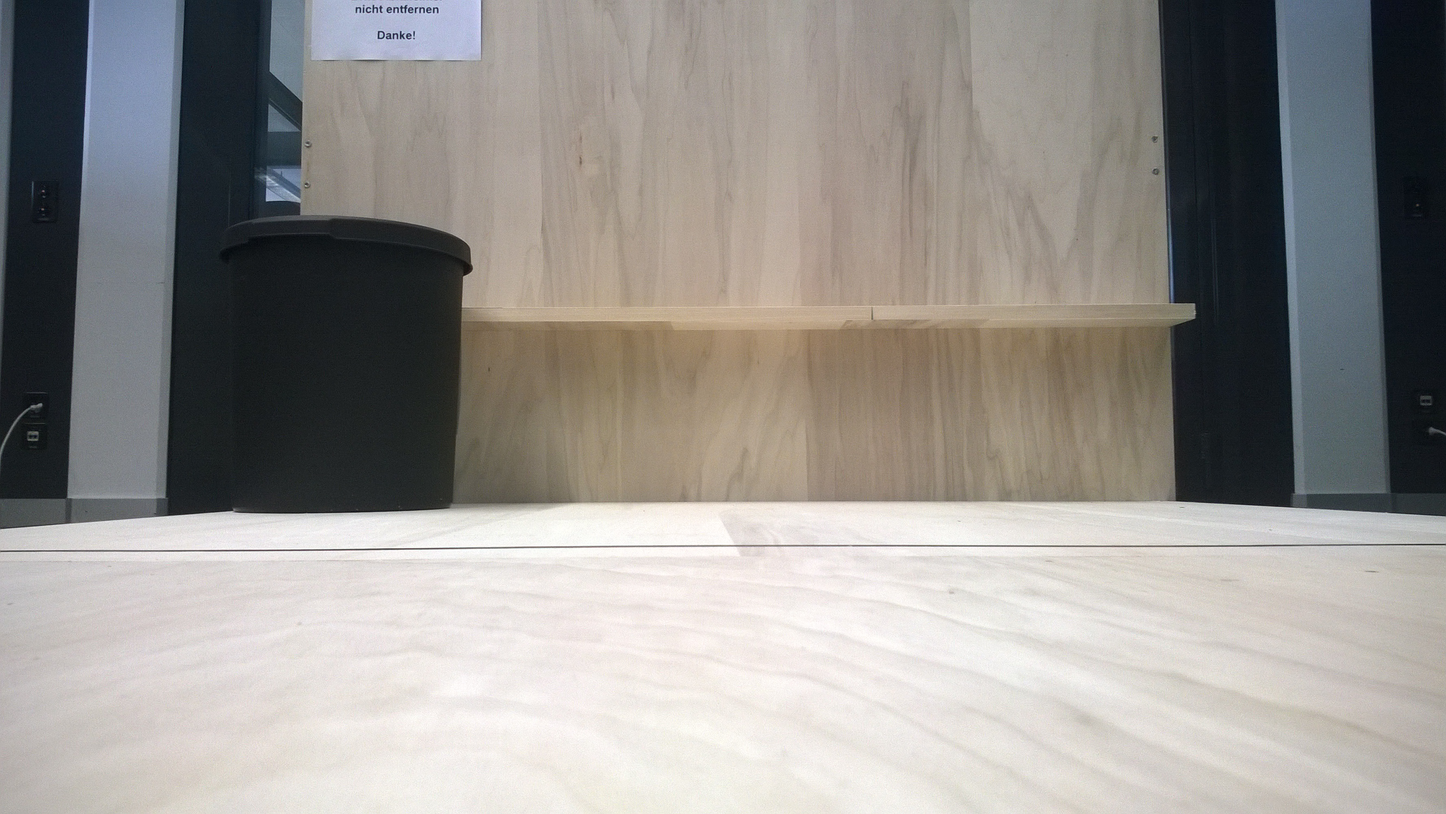
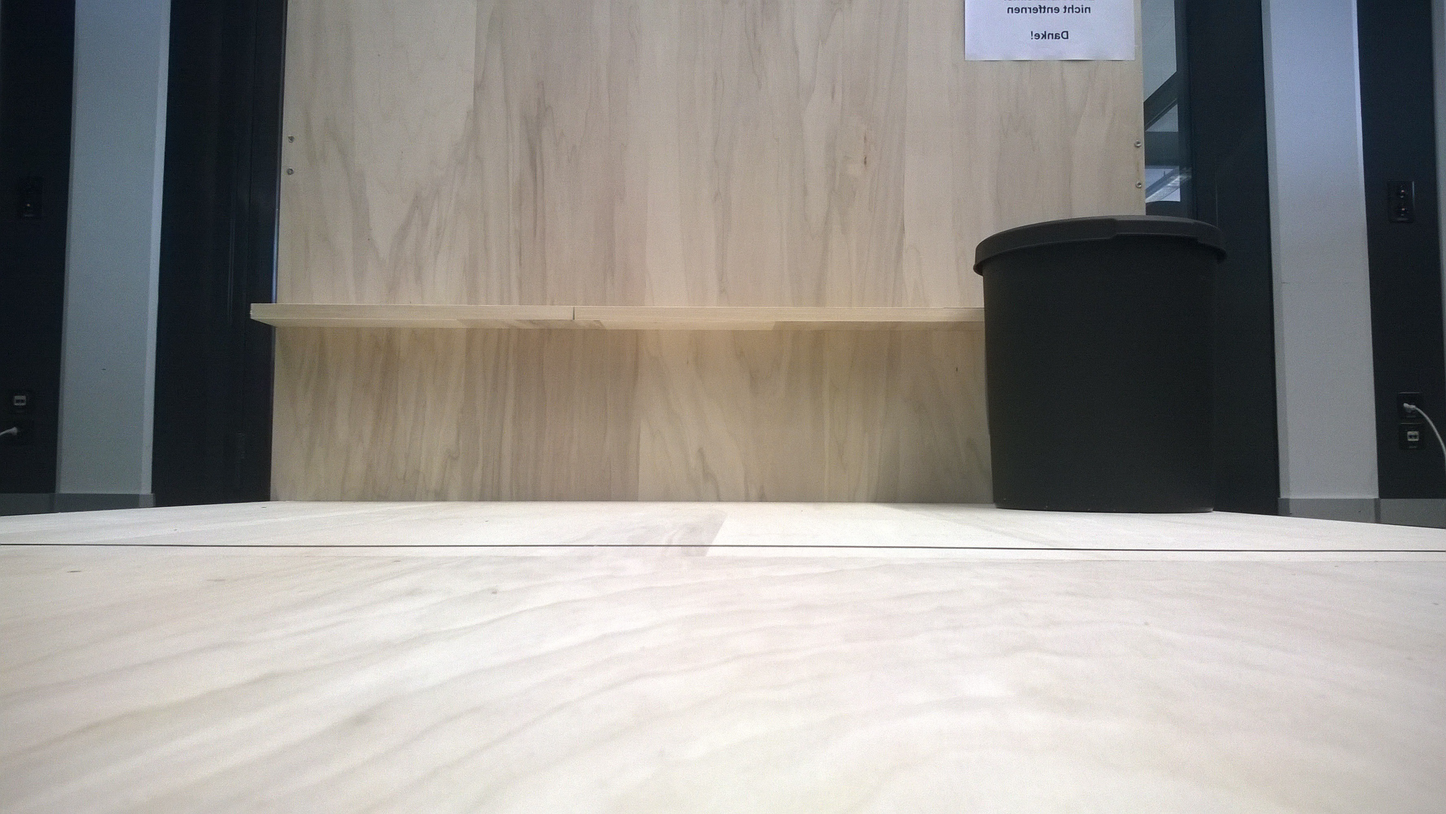
Added second Test with a mirrored picture (Korb2.jpg: Bucket now in the right corner)

diff --git a/PREN_Korberkennung/src/korberkennung/detektor/Detector.java b/PREN_Korberkennung/src/korberkennung/detektor/Detector.java
@@ -105,10 +105,11 @@ public class Detector {
     
     public int findObject(int mainArea) {
         int rgbCurrentPixel;
-        int xCoordinate = Integer.MIN_VALUE;
+        int xCoordinate;
         System.out.println("Attempting to find bucket..");
         //Seek shape of the basket, starting from the right side.
         if(mainArea < FINAL_IMAGE_WIDTH/2) {
+            xCoordinate = Integer.MIN_VALUE;
             for (int y = original.getHeight()-1; y > 0; y--) {
                 //Care for visitedFields variable (x must be larger!!)
                 for (int x = original.getWidth()-5; x > 5; x--) {
@@ -127,6 +128,7 @@ public class Detector {
         }
         //Seek shape of the basket, starting from the left side.
         else if(mainArea > FINAL_IMAGE_WIDTH/2) {
+            xCoordinate = Integer.MAX_VALUE;
             for (int y = 0; y < original.getHeight(); y++) {
                 //Care for visitedFields variable (x must be larger!!)
                 for (int x = 5; x < original.getWidth()-5; x++) {
@@ -145,7 +147,7 @@ public class Detector {
             xCoordinate = FINAL_IMAGE_WIDTH/2;
         }
         
-        if(xCoordinate == Integer.MIN_VALUE) {
+        if(xCoordinate == Integer.MIN_VALUE || xCoordinate == Integer.MAX_VALUE) {
             System.out.println("No shape found.");
         }
         System.out.print("\n");

diff --git a/PREN_Korberkennung/src/korberkennung/main/Main.java b/PREN_Korberkennung/src/korberkennung/main/Main.java
@@ -13,7 +13,7 @@ import korberkennung.viewer.Viewer;
  * @author Nikk
  */
 public class Main {
-    private static final String FILEPATH = "Korb1.jpg";
+    private static final String FILEPATH = "Korb2.jpg";
 
     /**
      * @param args the command line arguments
